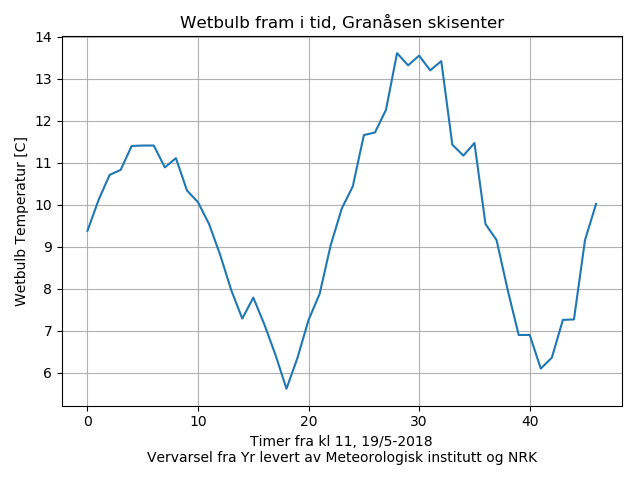
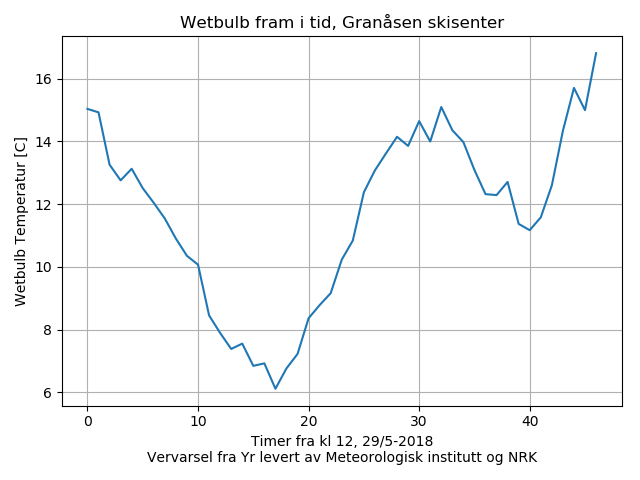
Fields
endret int til float

diff --git a/lanseside/startside/migrations/0022_auto_20180529_1126.py b/lanseside/startside/migrations/0022_auto_20180529_1126.py
@@ -1,0 +1,112 @@
+# Generated by Django 2.0.2 on 2018-05-29 09:26
+
+from django.db import migrations, models
+
+
+class Migration(migrations.Migration):
+
+    dependencies = [
+        ('startside', '0021_auto_20180424_1545'),
+    ]
+
+    operations = [
+        migrations.RemoveField(
+            model_name='test',
+            name='categori',
+        ),
+        migrations.AlterModelOptions(
+            name='langtidslagring',
+            options={'verbose_name_plural': 'Logg'},
+        ),
+        migrations.AlterField(
+            model_name='verdata',
+            name='dew',
+            field=models.FloatField(default=0),
+        ),
+        migrations.AlterField(
+            model_name='verdata',
+            name='dew_1',
+            field=models.FloatField(default=0),
+        ),
+        migrations.AlterField(
+            model_name='verdata',
+            name='dew_2',
+            field=models.FloatField(default=0),
+        ),
+        migrations.AlterField(
+            model_name='verdata',
+            name='gust',
+            field=models.FloatField(default=0),
+        ),
+        migrations.AlterField(
+            model_name='verdata',
+            name='hum_1',
+            field=models.FloatField(default=0),
+        ),
+        migrations.AlterField(
+            model_name='verdata',
+            name='hum_2',
+            field=models.FloatField(default=0),
+        ),
+        migrations.AlterField(
+            model_name='verdata',
+            name='press',
+            field=models.FloatField(default=0),
+        ),
+        migrations.AlterField(
+            model_name='verdata',
+            name='rain',
+            field=models.FloatField(default=0),
+        ),
+        migrations.AlterField(
+            model_name='verdata',
+            name='rainRate',
+            field=models.FloatField(default=0),
+        ),
+        migrations.AlterField(
+            model_name='verdata',
+            name='temp',
+            field=models.FloatField(default=0),
+        ),
+        migrations.AlterField(
+            model_name='verdata',
+            name='temp2_1',
+            field=models.FloatField(default=0),
+        ),
+        migrations.AlterField(
+            model_name='verdata',
+            name='temp2_2',
+            field=models.FloatField(default=0),
+        ),
+        migrations.AlterField(
+            model_name='verdata',
+            name='temp_1',
+            field=models.FloatField(default=0),
+        ),
+        migrations.AlterField(
+            model_name='verdata',
+            name='temp_2',
+            field=models.FloatField(default=0),
+        ),
+        migrations.AlterField(
+            model_name='verdata',
+            name='timestamp',
+            field=models.FloatField(default=0),
+        ),
+        migrations.AlterField(
+            model_name='verdata',
+            name='wind',
+            field=models.FloatField(default=0),
+        ),
+        migrations.AlterField(
+            model_name='verdata',
+            name='windChill',
+            field=models.FloatField(default=0),
+        ),
+        migrations.DeleteModel(
+            name='Category',
+        ),
+        migrations.DeleteModel(
+            name='test',
+        ),
+    ]

diff --git a/lanseside/startside/models.py b/lanseside/startside/models.py
@@ -39,25 +39,25 @@ class Lanse(models.Model):          #lagrer driftsinformasjon om lanser
 
 
 class Verdata(models.Model):        #lagrer verdata
-    dew_2 = models.IntegerField(default=0)
-    dew_1 = models.IntegerField(default=0)
-    dew = models.IntegerField(default=0)
-    temp = models.IntegerField(default=0)
+    dew_2 = models.FloatField(default=0)
+    dew_1 = models.FloatField(default=0)
+    dew = models.FloatField(default=0)
+    temp = models.FloatField(default=0)
     hum = models.IntegerField(default=0)
-    press = models.IntegerField(default=0)
-    wind = models.IntegerField(default=0)
-    gust = models.IntegerField(default=0)
+    press = models.FloatField(default=0)
+    wind = models.FloatField(default=0)
+    gust = models.FloatField(default=0)
     windDir = models.IntegerField(default=0)
-    windChill = models.IntegerField(default=0)
-    rain = models.IntegerField(default=0)
-    rainRate = models.IntegerField(default=0)
-    temp_1 = models.IntegerField(default=0)
-    temp2_1 = models.IntegerField(default=0)
-    hum_1 = models.IntegerField(default=0)
-    temp_2 = models.IntegerField(default=0)
-    temp2_2 = models.IntegerField(default=0)
-    hum_2 = models.IntegerField(default=0)
-    timestamp = models.IntegerField(default=0)
+    windChill = models.FloatField(default=0)
+    rain = models.FloatField(default=0)
+    rainRate = models.FloatField(default=0)
+    temp_1 = models.FloatField(default=0)
+    temp2_1 = models.FloatField(default=0)
+    hum_1 = models.FloatField(default=0)
+    temp_2 = models.FloatField(default=0)
+    temp2_2 = models.FloatField(default=0)
+    hum_2 = models.FloatField(default=0)
+    timestamp = models.FloatField(default=0)
 
 
 
